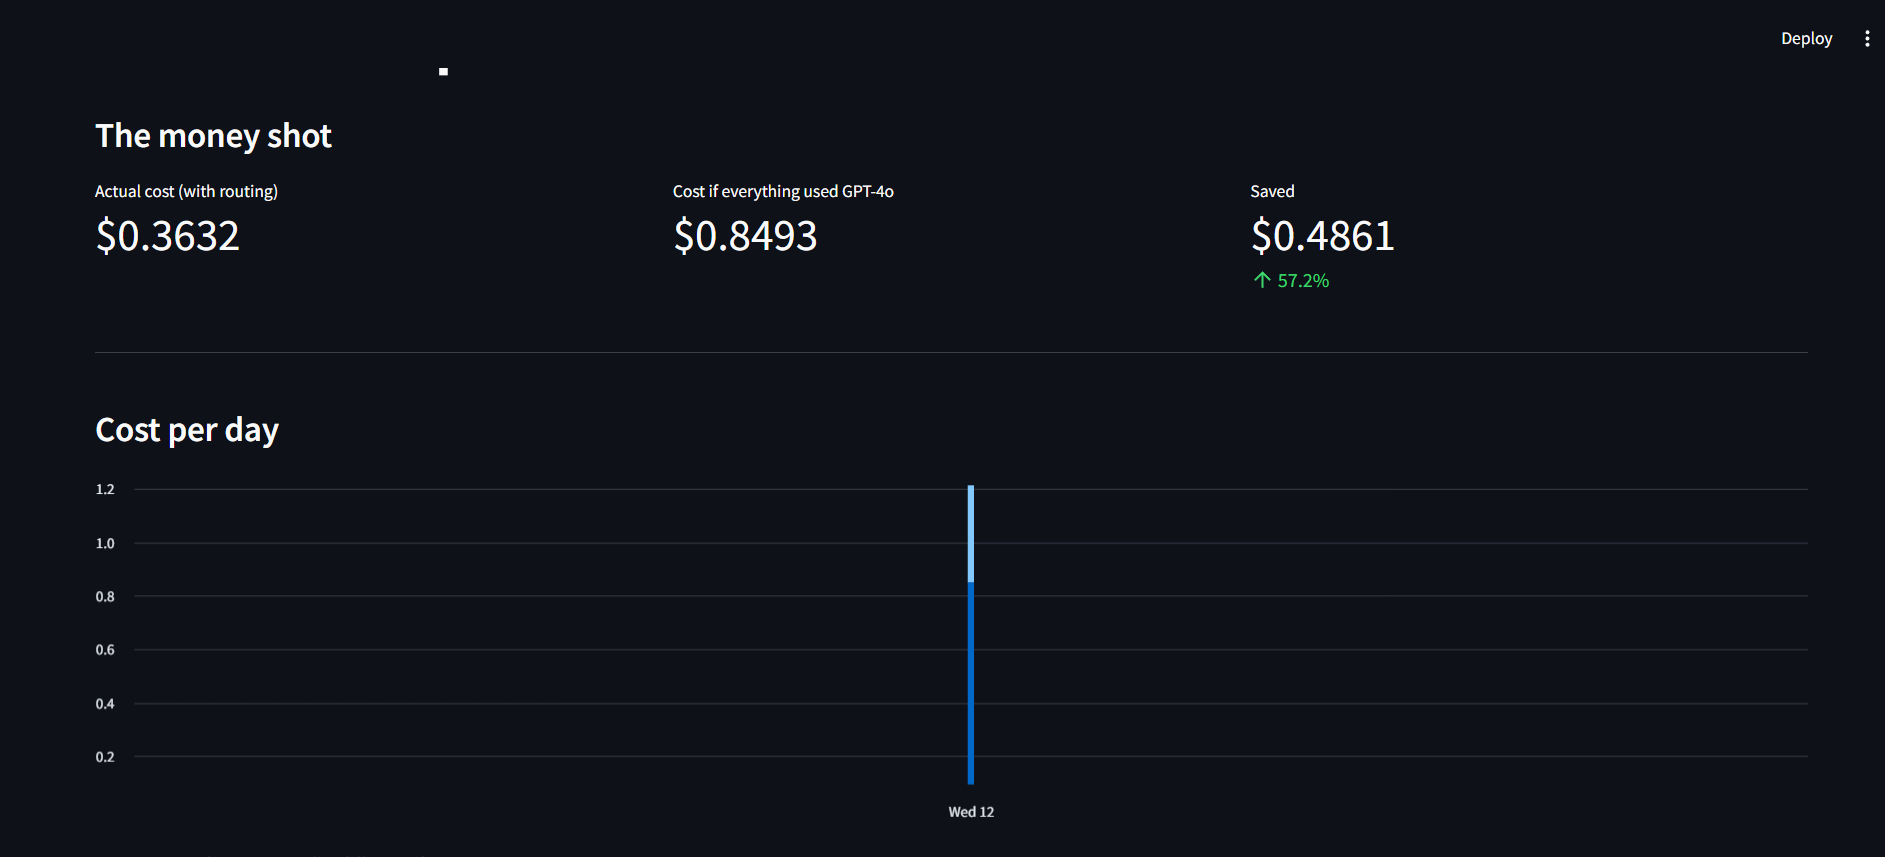
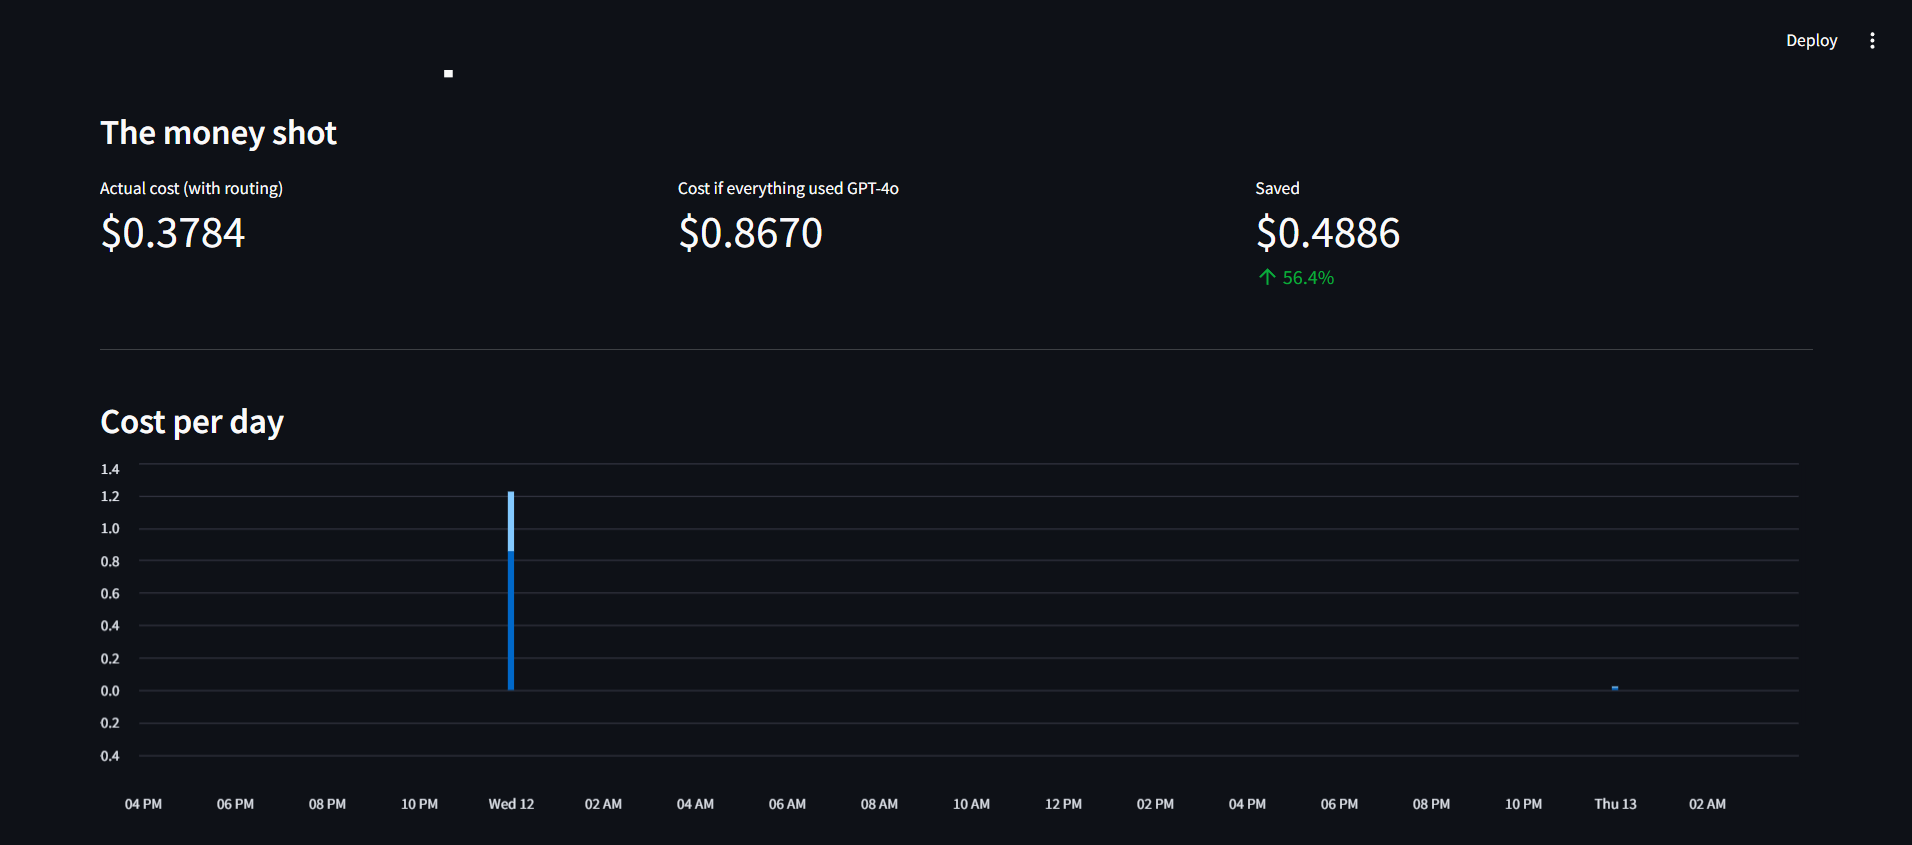
Real Groq inference, dashboard polish, and CI fixes

diff --git a/dashboard/app.py b/dashboard/app.py
@@ -1,12 +1,14 @@
-"""
-Phase 4, Step 2: The cost dashboard.
+"""
+The cost dashboard.
 
 A Streamlit app that reads data/autopilot.db and shows the headline
 "money shot" metric (% cost saved vs. sending everything to GPT-4o), cost
 per day, routing distribution, requests per complexity tier, quality score
-distribution, and escalation rate.
+distribution, and escalation rate. Also includes a "Try it live" tab that
+sends a real prompt to the running API and shows how it gets routed.
 
-Run from the project root:
+Run from the project root (with the API also running in another terminal):
+    uvicorn app.api.main:app --reload
     streamlit run dashboard/app.py
 
 This opens a browser tab automatically -- it's a live local web server,
@@ -16,13 +18,16 @@ Ctrl+C there.
 
 from __future__ import annotations
 
+import os
 import sqlite3
 from pathlib import Path
 
+import httpx
 import pandas as pd
 import streamlit as st
 
 DB_PATH = Path(__file__).resolve().parents[1] / "data" / "autopilot.db"
+API_BASE_URL = os.environ.get("API_BASE_URL", "http://localhost:8000")
 
 st.set_page_config(page_title="LLM Cost Autopilot", layout="wide")
 
@@ -36,72 +41,116 @@ def load_data() -> pd.DataFrame:
     return df
 
 
-df = load_data()
+st.title("LLM Cost Autopilot - Cost Dashboard")
 
-st.title("LLM Cost Autopilot — Cost Dashboard")
+tab_dashboard, tab_try_it = st.tabs(["Cost Dashboard", "Try it live"])
 
-if df.empty:
-    st.warning("No requests logged yet. Run `python -m scripts.populate_demo_data` first.")
-    st.stop()
+with tab_dashboard:
+    df = load_data()
 
-total_cost = df["cost_usd"].sum()
-baseline_cost = df["baseline_cost_usd"].sum()
-savings_usd = baseline_cost - total_cost
-savings_pct = (savings_usd / baseline_cost) if baseline_cost else 0
+    if df.empty:
+        st.warning("No requests logged yet. Run `python -m scripts.populate_demo_data` first.")
+        st.stop()
 
-# ---- Headline metric ----
-st.subheader("The money shot")
-col1, col2, col3 = st.columns(3)
-col1.metric("Actual cost (with routing)", f"${total_cost:.4f}")
-col2.metric("Cost if everything used GPT-4o", f"${baseline_cost:.4f}")
-col3.metric("Saved", f"${savings_usd:.4f}", f"{savings_pct:.1%}")
+    total_cost = df["cost_usd"].sum()
+    baseline_cost = df["baseline_cost_usd"].sum()
+    savings_usd = baseline_cost - total_cost
+    savings_pct = (savings_usd / baseline_cost) if baseline_cost else 0
 
-st.divider()
+    # ---- Headline metric ----
+    st.subheader("The money shot")
+    col1, col2, col3 = st.columns(3)
+    col1.metric("Actual cost (with routing)", f"${total_cost:.4f}")
+    col2.metric("Cost if everything used GPT-4o", f"${baseline_cost:.4f}")
+    col3.metric("Saved", f"${savings_usd:.4f}", f"{savings_pct:.1%}")
 
-# ---- Cost per day ----
-st.subheader("Cost per day")
-by_day = df.groupby("date")[["cost_usd", "baseline_cost_usd"]].sum()
-by_day.columns = ["Actual cost", "Baseline (all GPT-4o) cost"]
-st.bar_chart(by_day)
+    st.divider()
 
-# ---- Routing distribution ----
-col_a, col_b = st.columns(2)
-with col_a:
-    st.subheader("Routing distribution")
-    st.caption("Which model handled what share of requests")
-    st.bar_chart(df["model_name"].value_counts())
+    # ---- Cost per day ----
+    st.subheader("Cost per day")
+    by_day = df.groupby("date")[["cost_usd", "baseline_cost_usd"]].sum()
+    by_day.columns = ["Actual cost", "Baseline (all GPT-4o) cost"]
+    st.bar_chart(by_day)
 
-with col_b:
-    st.subheader("Requests by complexity tier")
-    tier_labels = {1: "Tier 1 (Simple)", 2: "Tier 2 (Moderate)", 3: "Tier 3 (Complex)"}
-    st.bar_chart(df["tier"].map(tier_labels).value_counts())
+    # ---- Routing distribution ----
+    col_a, col_b = st.columns(2)
+    with col_a:
+        st.subheader("Routing distribution")
+        st.caption("Which model handled what share of requests")
+        st.bar_chart(df["model_name"].value_counts())
+    with col_b:
+        st.subheader("Requests by complexity tier")
+        tier_labels = {1: "Tier 1 (Simple)", 2: "Tier 2 (Moderate)", 3: "Tier 3 (Complex)"}
+        st.bar_chart(df["tier"].map(tier_labels).value_counts())
 
-st.divider()
+    st.divider()
 
-# ---- Quality + escalation ----
-col_c, col_d = st.columns(2)
-with col_c:
-    st.subheader("Quality score distribution")
-    quality_scores = df["quality_score"].dropna()
-    if not quality_scores.empty:
-        binned = pd.cut(quality_scores, bins=10)
-        counts = binned.value_counts().sort_index()
-        counts.index = counts.index.astype(str)  # clean labels, not raw Interval objects
-        st.bar_chart(counts)
-    else:
-        st.write("No quality scores recorded yet.")
+    # ---- Quality + escalation ----
+    col_c, col_d = st.columns(2)
+    with col_c:
+        st.subheader("Quality score distribution")
+        quality_scores = df["quality_score"].dropna()
+        if not quality_scores.empty:
+            binned = pd.cut(quality_scores, bins=10)
+            counts = binned.value_counts().sort_index()
+            counts.index = counts.index.astype(str)  # clean labels, not raw Interval objects
+            st.bar_chart(counts)
+        else:
+            st.write("No quality scores recorded yet.")
+    with col_d:
+        st.subheader("Escalation rate")
+        escalation_rate = df["was_escalated"].mean()
+        st.metric(
+            "Escalated requests",
+            f"{escalation_rate:.1%}",
+            f"{int(df['was_escalated'].sum())} of {len(df)}",
+        )
 
-with col_d:
-    st.subheader("Escalation rate")
-    escalation_rate = df["was_escalated"].mean()
-    st.metric(
-        "Escalated requests",
-        f"{escalation_rate:.1%}",
-        f"{int(df['was_escalated'].sum())} of {len(df)}",
+    st.divider()
+    st.caption(
+        "NOTE: figures include a mix of real and mock responses. Tier 1 and Tier 2 requests logged since a Groq API key was configured are real (see was_mocked in the database); Tier 3 (GPT-4o) remains mocked, since no paid key is configured for it."
     )
 
-st.divider()
-st.caption(
-    "NOTE: figures reflect MOCK responses unless real API keys are configured "
-    "in .env — costs/latencies are simulated, not real, until then."
-)
+with tab_try_it:
+    st.subheader("Send a real prompt through the live router")
+    st.caption(
+        f"This calls your running API at {API_BASE_URL}/v1/completions - make sure "
+        "`uvicorn app.api.main:app --reload` is running in another terminal."
+    )
+
+    example_prompts = {
+        "Simple (Tier 1 expected)": "What is the capital of Japan?",
+        "Moderate (Tier 2 expected)": "Classify this review as positive or negative: The battery life is amazing but customer service was slow.",
+        "Complex (Tier 3 expected)": "Design a fault-tolerant architecture for a real-time payment system handling 1 million transactions per day.",
+    }
+    choice = st.selectbox("Try an example, or write your own below:", ["(write my own)"] + list(example_prompts.keys()))
+    default_text = "" if choice == "(write my own)" else example_prompts[choice]
+
+    prompt = st.text_area("Prompt", value=default_text, height=100)
+    send = st.button("Route & send", type="primary")
+
+    if send and prompt.strip():
+        with st.spinner("Classifying complexity, routing, and calling the model..."):
+            try:
+                resp = httpx.post(f"{API_BASE_URL}/v1/completions", json={"prompt": prompt}, timeout=60.0)
+                resp.raise_for_status()
+                result = resp.json()
+            except Exception as exc:
+                st.error(f"Couldn't reach the API at {API_BASE_URL}. Is `uvicorn app.api.main:app --reload` running? ({exc})")
+            else:
+                tier_names = {1: "Tier 1 - Simple", 2: "Tier 2 - Moderate", 3: "Tier 3 - Complex"}
+                c1, c2, c3 = st.columns(3)
+                c1.metric("Complexity tier", tier_names.get(result["tier"], result["tier"]))
+                c2.metric("Model selected", result["selected_model"])
+                c3.metric("Real or mocked?", "Real" if not result["was_mocked"] else "Mocked")
+
+                st.markdown(f"**Why this model:** {result.get('reason', 'n/a')}")
+                st.markdown("**Response:**")
+                st.info(result["text"])
+
+                c4, c5, c6 = st.columns(3)
+                c4.metric("Cost", f"${result['cost_usd']:.6f}")
+                c5.metric("Latency", f"{result['latency_ms']} ms")
+                c6.metric("Tokens (in/out)", f"{result['input_tokens']} / {result['output_tokens']}")
+    elif send:
+        st.warning("Type a prompt first.")

diff --git a/tests/test_phase1.py b/tests/test_phase1.py
@@ -1,4 +1,4 @@
-import sys
+import sys
 from pathlib import Path
 
 sys.path.insert(0, str(Path(__file__).resolve().parents[1]))
@@ -8,7 +8,7 @@ from app.models import MODEL_REGISTRY, get_model
 
 
 def test_registry_has_five_models():
-    assert len(MODEL_REGISTRY) == 5
+    assert len(MODEL_REGISTRY) == 6
 
 
 def test_get_model_unknown_raises():
@@ -33,3 +33,4 @@ def test_send_request_falls_back_to_mock_without_keys(monkeypatch):
     assert response.model_name == "gpt-4o-mini"
     assert response.cost_usd >= 0
     assert response.input_tokens > 0
+

diff --git a/README.md b/README.md
@@ -1,6 +1,6 @@
 # LLM Cost Autopilot
 
-<p align="center"><b>Route every LLM request to the cheapest model that can actually handle it - automatically, with built-in self-verification.</b></p>
+<p align="center"><img src="docs/banner.svg" alt="LLM Cost Autopilot" width="100%"></p>
 
 <p align="center">
   <a href="https://github.com/19himanshurane/llm-cost-autopilot/actions/workflows/tests.yml"><img alt="CI" src="https://github.com/19himanshurane/llm-cost-autopilot/actions/workflows/tests.yml/badge.svg"></a>
@@ -78,36 +78,25 @@ docker compose up --build
 ```
 
 ## How it works
-             +--------------+
 
-request ---> | FastAPI |
-| /v1/completions
-+------+-------+
-|
-+------v-------+
-| Complexity | scikit-learn classifier
-| Classifier | (Tier 1 / 2 / 3)
-+------+-------+
-|
-+------v-------+ routing_config.yaml
-| Router |<----- (tier -> model map)
-+------+-------+
-|
-+---------------+---------------+
-v v v
-OpenAI adapter Anthropic adapter Groq adapter
-| | |
-+---------------+---------------+
-|
-+------v-------+
-| SQLite log |--> Streamlit cost dashboard
-+------+-------+
-| (async, after response returned)
-+------v-------+
-| Verifier | compares vs. reference model
-| + escalator | re-runs & logs on divergence
-+--------------+
-
+```mermaid
+flowchart TD
+    A[Incoming request] --> B[FastAPI: /v1/completions]
+    B --> C[Complexity Classifier<br/>scikit-learn]
+    C -->|Tier 1 / 2 / 3| D[Router]
+    E[routing_config.yaml] -.read by.-> D
+    D --> F{Which provider?}
+    F -->|Tier 1 or 2| G[Groq adapter]
+    F -->|Tier 3| H[OpenAI adapter]
+    G --> I[Response returned to caller]
+    H --> I
+    I --> J[(SQLite request log)]
+    J --> K[Streamlit cost dashboard]
+    I -.async, background thread.-> L[Verifier]
+    L -->|compares vs. reference model| M{Diverged too much?}
+    M -->|yes| N[Escalate, log, feed back into training set]
+    M -->|no| O[No action]
+```
 
 Every provider adapter falls back to a mock response when no key is configured, which is how this system was built and validated end to end before spending anything. Today, **Tier 1** and **Tier 2** run on real, free inference via **Groq** - verified end to end with real responses, real (near-zero) cost, and real latency. **Tier 3**, routed to GPT-4o, stays mocked, since no free tier exists for OpenAI frontier models.
 
